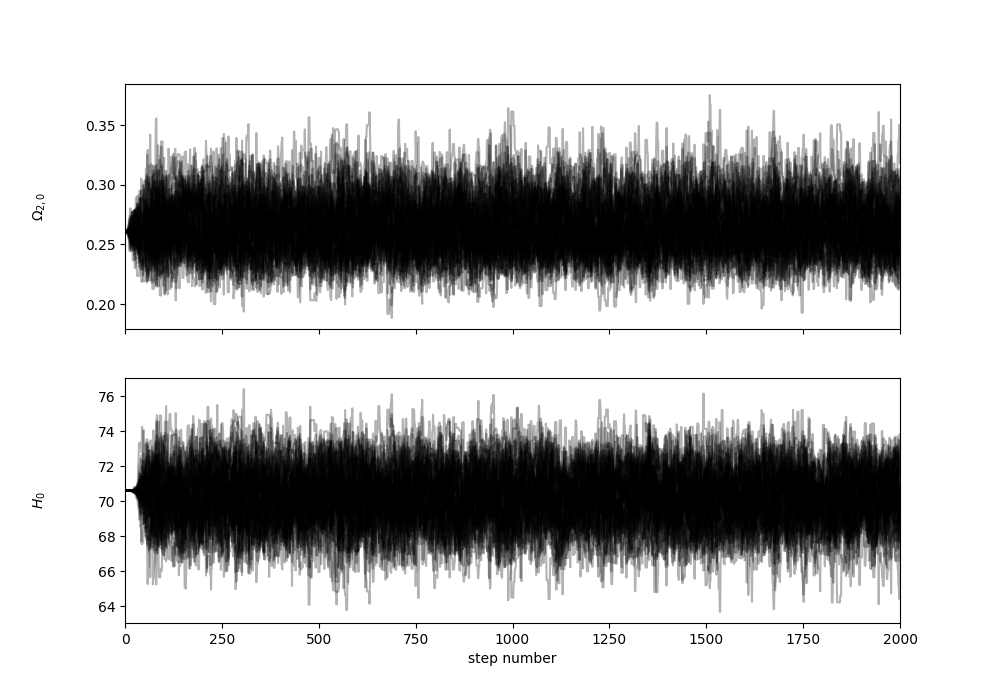
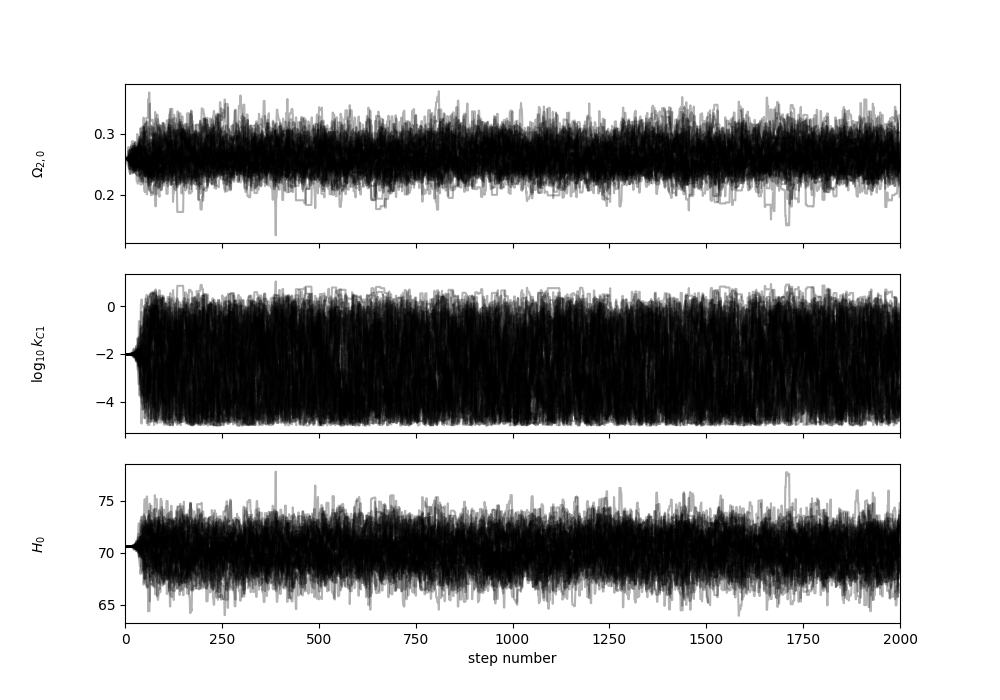
update OHD

diff --git a/SNe Ia/test.py b/SNe Ia/test.py
@@ -1,4 +1,3 @@
-# 其他程序的结果表明Mb不可限制，log_kC1非马尔可夫性，该程序限制O20与H0
 import numpy as np
 import matplotlib.pyplot as plt
 import emcee
@@ -19,8 +18,7 @@ m = pandata[:, 1]
 err_m = pandata[:, 2]
 
 # 定义微分函数
-def function(t, z, O20, kC1):
-    O10 = 1 - O20
+def function(t, z, O10, kC1, H0):
     # z[0] = z(t), z[1] = z'(t), z[2] = z''(t)
     dz1 = z[1]
     # 减少括号的使用,分为分子与分母
@@ -32,8 +30,9 @@ def function(t, z, O20, kC1):
     return [dz1, dz2]
 
 # 解方程
-def sov_func(O20, log_kC1):
+def sov_func(O20, log_kC1, H0):
     t0 = 1/H0
+    O10 = 1 - O20
     kC1 = 10**log_kC1
     tspan = (t0, 0)
     tn = np.linspace(t0, 0, 100000)
@@ -41,7 +40,7 @@ def sov_func(O20, log_kC1):
     zt0 = [0, -H0]
 
     # t0给定初值
-    z = scipy.integrate.solve_ivp(function, t_span=tspan, y0=zt0, t_eval=tn, method='RK45', args={H0, kC1})
+    z = scipy.integrate.solve_ivp(function, t_span=tspan, y0=zt0, t_eval=tn, method='RK45', args={O10, H0, kC1})
     # z.y[0,:] = z(t), z.y[1,:] = z'(t)
 
     t_values = z.t
@@ -67,7 +66,7 @@ def sov_func(O20, log_kC1):
 def lnlike(paras):
     O20, log_kC1 = paras
     # O20 = O20 % 1
-    dl = np.array(sov_func(O20, log_kC1))
+    dl = np.array(sov_func(O20, log_kC1, H0))
     mth = -19 + 5 * np.log10(dl) + 25
     A = np.sum((m - mth)**2/err_m**2)
     B = np.sum((m - mth)/err_m**2)
@@ -95,24 +94,24 @@ import multiprocessing as mp
 def main():
     # 定义mcmc参量
     nll = lambda *args: -lnlike(*args)
-    initial = np.array([0.28, -2]) # expected best values
+    initial = np.array([0.28, -3]) # expected best values
     soln = scipy.optimize.minimize(nll, initial)
     pos = soln.x + 1e-4 * np.random.randn(50, 2)
     nwalkers, ndim = pos.shape
 
     with mp.Pool() as pool:
         sampler = emcee.EnsembleSampler(nwalkers, ndim, lnprob, pool=pool)
-        sampler.run_mcmc(pos, 500, progress = True)
+        sampler.run_mcmc(pos, 2000, progress = True)
 
     # 画图
-    flat_samples = sampler.get_chain(discard=50, thin=10, flat=True)
-    figure = corner.corner(flat_samples, bins=30, smooth=10, smooth1d=10, plot_datapoints=False, levels=(0.6826,0.9544), labels=[r'$\Omega_{2,0}$', '$H_0$'], 
+    flat_samples = sampler.get_chain(discard=100, thin=20, flat=True)
+    figure = corner.corner(flat_samples, bins=30, smooth=10, smooth1d=10, plot_datapoints=False, levels=(0.6826,0.9544), labels=[r'$\Omega_{2,0}$', r'$\log_{10}k_{C1}$', r'$H_0$'], 
                           color='royalblue', title_fmt='.4f', show_titles=True, title_kwargs={"fontsize": 14})
     plt.show()
 
     fig, axes = plt.subplots(2, figsize=(10, 7), sharex=True)
     samples = sampler.get_chain()
-    labels = [r'$\Omega_{2,0}$', '$H_0$']
+    labels = [r'$\Omega_{2,0}$', r'$\log_{10}k_{C1}$', r'$H_0$']
     for i in range(ndim):
         ax = axes[i]
         ax.plot(samples[:, :, i], "k", alpha=0.3)

diff --git a/OHD/test.py b/OHD/test.py
@@ -5,7 +5,6 @@ import corner
 import scipy
 
 const_c = 2.99792458e5
-H0 = 70
 
 # 从csv文件中读取数据
 file_path = "./OHD/OHD.csv"
@@ -61,14 +60,14 @@ def chi_square(log_kC1, O20, H0):
 
 # lnlike函数(对数似然函数)
 def lnlike(paras):
-    O20, log_kC1 = paras
+    O20, log_kC1, H0 = paras
     chi2 = chi_square(log_kC1, O20, H0)
     return -0.5 * chi2
 
 # lnprior函数(先验概率函数)
 def lnprior(paras):
-    O20, log_kC1 = paras
-    if 0 < O20 < 0.5 and -5 < log_kC1 < 3:
+    O20, log_kC1, H0 = paras
+    if 0 < O20 < 0.5 and -5 < log_kC1 < 3 and 50 < H0 < 100:
         return 0.0
     return -np.inf
 
@@ -85,9 +84,9 @@ import multiprocessing as mp
 def main():
     # 定义mcmc参量
     nll = lambda *args: -lnlike(*args)
-    initial = np.array([0.26, -2]) # expected best values
+    initial = np.array([0.26, -2, 70]) # expected best values
     soln = scipy.optimize.minimize(nll, initial)
-    pos = soln.x + 1e-4 * np.random.randn(50, 2)
+    pos = soln.x + 1e-4 * np.random.randn(50, 3)
     nwalkers, ndim = pos.shape
 
     with mp.Pool() as pool:
@@ -96,13 +95,13 @@ def main():
 
     # 画图
     flat_samples = sampler.get_chain(discard=100, thin=15, flat=True)
-    figure = corner.corner(flat_samples, bins=30, smooth=10, smooth1d=10, plot_datapoints=False, levels=(0.6826,0.9544), labels=[r'$\Omega_{2,0}$', r'$\log_{10}k_{C1}$'], 
+    figure = corner.corner(flat_samples, bins=30, smooth=10, smooth1d=10, plot_datapoints=False, levels=(0.6826,0.9544), labels=[r'$\Omega_{2,0}$', r'$\log_{10}k_{C1}$', r'$H_0$'], 
                           color='royalblue', title_fmt='.4f', show_titles=True, title_kwargs={"fontsize": 14})
     plt.show()
 
-    fig, axes = plt.subplots(2, figsize=(10, 7), sharex=True)
+    fig, axes = plt.subplots(3, figsize=(10, 7), sharex=True)
     samples = sampler.get_chain()
-    labels = [r'$\Omega_{2,0}$', r'$\log_{10}k_{C1}$']
+    labels = [r'$\Omega_{2,0}$', r'$\log_{10}k_{C1}$', r'$H_0$']
     for i in range(ndim):
         ax = axes[i]
         ax.plot(samples[:, :, i], "k", alpha=0.3)
